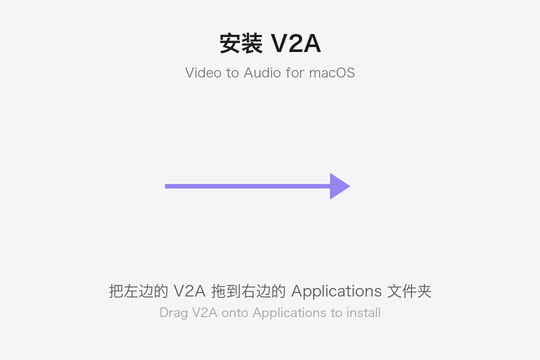
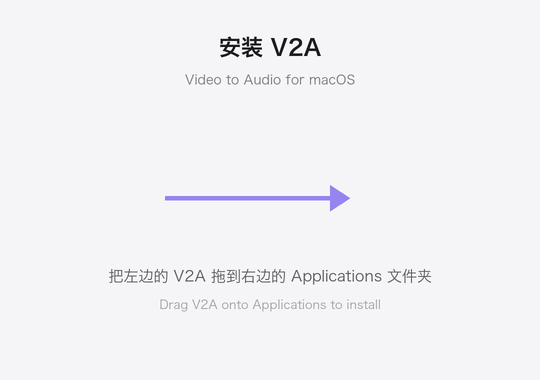
DMG 安装窗口：调整窗口高度与文案位置，补预览图

diff --git a/assets/make_dmg_bg.py b/assets/make_dmg_bg.py
@@ -3,7 +3,7 @@
 import os
 from PIL import Image, ImageDraw, ImageFont
 
-W, H = 1080, 720          # 2x
+W, H = 1080, 760          # 2x（540×380）
 HERE = os.path.dirname(os.path.abspath(__file__))
 FONT = "/System/Library/Fonts/Hiragino Sans GB.ttc"
 
@@ -19,15 +19,15 @@ d = ImageDraw.Draw(img)
 title = "安装 V2A"
 f_title = font(22, weight=1)
 tw = d.textlength(title, font=f_title)
-d.text(((W - tw) / 2, 64), title, font=f_title, fill=(28, 28, 30))
+d.text(((W - tw) / 2, 72), title, font=f_title, fill=(28, 28, 30))
 
 sub = "Video to Audio for macOS"
 f_sub = font(13)
 sw = d.textlength(sub, font=f_sub)
-d.text(((W - sw) / 2, 132), sub, font=f_sub, fill=(120, 120, 125))
+d.text(((W - sw) / 2, 146), sub, font=f_sub, fill=(120, 120, 125))
 
 # 中间箭头（从左图标指向右文件夹）
-arrow_y = 372
+arrow_y = 396
 x0, x1 = 330, 700
 d.line([(x0, arrow_y), (x1 - 34, arrow_y)], fill=(150, 132, 240), width=9)
 d.polygon([(x1 - 40, arrow_y - 26), (x1, arrow_y), (x1 - 40, arrow_y + 26)],
@@ -37,13 +37,13 @@ d.polygon([(x1 - 40, arrow_y - 26), (x1, arrow_y), (x1 - 40, arrow_y + 26)],
 tip = "把左边的 V2A 拖到右边的 Applications 文件夹"
 f_tip = font(15)
 pw = d.textlength(tip, font=f_tip)
-d.text(((W - pw) / 2, 566), tip, font=f_tip, fill=(90, 90, 95))
+d.text(((W - pw) / 2, 536), tip, font=f_tip, fill=(90, 90, 95))
 
 tip_en = "Drag V2A onto Applications to install"
 f_en = font(12)
 ew = d.textlength(tip_en, font=f_en)
-d.text(((W - ew) / 2, 612), tip_en, font=f_en, fill=(160, 160, 165))
+d.text(((W - ew) / 2, 596), tip_en, font=f_en, fill=(160, 160, 165))
 
 out = os.path.join(HERE, "dmg", "background.png")
-img.resize((540, 360), Image.LANCZOS).save(out)
+img.resize((540, 380), Image.LANCZOS).save(out)
 print("ok:", out)
